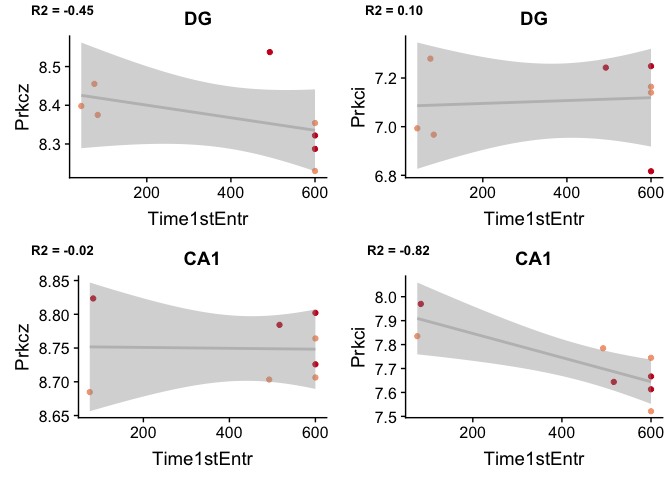
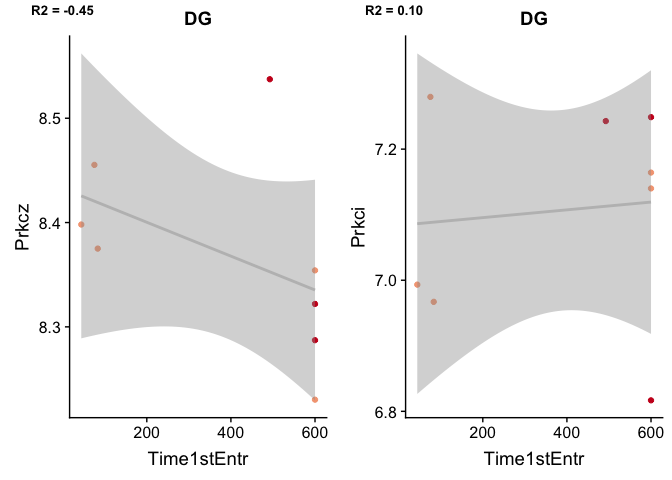
now with DG only

diff --git a/scripts/02e_correlations.md b/scripts/02e_correlations.md
@@ -1,13 +1,13 @@
     library(tidyverse) 
 
-    ## ── Attaching packages ────────────────────────────────────────────────────────────────────────────────────── tidyverse 1.2.1 ──
+    ## ── Attaching packages ──────────────────────────────────────────────────────────────────────── tidyverse 1.2.1 ──
 
     ## ✔ ggplot2 3.2.1     ✔ purrr   0.3.2
     ## ✔ tibble  2.1.3     ✔ dplyr   0.8.1
     ## ✔ tidyr   0.8.3     ✔ stringr 1.4.0
     ## ✔ readr   1.3.1     ✔ forcats 0.4.0
 
-    ## ── Conflicts ───────────────────────────────────────────────────────────────────────────────────────── tidyverse_conflicts() ──
+    ## ── Conflicts ─────────────────────────────────────────────────────────────────────────── tidyverse_conflicts() ──
     ## ✖ dplyr::filter() masks stats::filter()
     ## ✖ dplyr::lag()    masks stats::lag()
 
@@ -26,34 +26,32 @@
 
     knitr::opts_chunk$set(fig.path = '../figures/02e_correlations/', cache = F)
 
+    # DG only
+
     # import varance stabilized data
     DGvsd <- read.csv("../data/02c_DGvsd.csv", stringsAsFactors = F, check.names = F, row.names = 1)  
-    CA1vsd <- read.csv("../data/02c_CA1vsd.csv", stringsAsFactors = F, check.names = F, row.names = 1)  
 
     # import col Data and subset for each region
     a.colData <- read.csv("../data/02a_colData.csv", header = T)
     a.colData$mouse <- sapply(strsplit(as.character(a.colData$RNAseqID),"-"), "[", 1)
 
     DGcols <- a.colData %>% filter(Punch == "DG", APA2 %in% c("conflict.trained", "standard.trained")) %>% droplevels()
-    CA1cols <- a.colData %>% filter(Punch == "CA1", APA2 %in% c("conflict.trained", "standard.trained")) %>% droplevels()
+
 
     # create lists of trained only samples
     DGtrained <- DGcols$mouse
-    CA1trained <- CA1cols$mouse
 
     # cutoff region in name
     names(DGvsd) <- sapply(strsplit(names(DGvsd),"-"), "[", 1)
-    names(CA1vsd) <- sapply(strsplit(names(CA1vsd),"-"), "[", 1)
 
     # keep only trained varance stabilized data
     DGvsd <- DGvsd %>% select(DGtrained)
-    CA1vsd <- CA1vsd %>% select(CA1trained)
 
     DGvsd <- as.data.frame(t(DGvsd))
-    CA1vsd <- as.data.frame(t(CA1vsd))
+
 
     DGvsd$mouse <- row.names(DGvsd)
-    CA1vsd$mouse <- row.names(CA1vsd)
+
 
     # import behavior data, create mouse id
     behav <- read.csv("../data/01a_behavior.csv") 
@@ -79,54 +77,34 @@
     DGsig <- read.csv("../data/02c_DGforupset.csv", stringsAsFactors = F) %>% select(gene) %>% droplevels()
     DGsig <- DGsig$gene
 
-    CA1sig <- read.csv("../data/02c_CA1forupset.csv", stringsAsFactors = F) %>% select(gene) %>% droplevels()
-    CA1sig <- CA1sig$gene
 
     DGvsdSig <- DGvsd %>% select(mouse,DGsig) %>% arrange(mouse)
-    CA1vsdSig <- CA1vsd %>% select(mouse,CA1sig) %>% arrange(mouse)
 
     DG <- left_join(timefirstentr,DGvsdSig) %>% drop_na()  %>% arrange(mouse)
 
     ## Joining, by = "mouse"
 
-    CA1 <- left_join(timefirstentr,CA1vsdSig) %>% drop_na() %>% arrange(mouse)
-
-    ## Joining, by = "mouse"
-
     DG <- as.data.frame(DG)
-    CA1 <- as.data.frame(CA1)
 
     row.names(DG) <- DG$mouse 
     DG$mouse <- NULL
 
-    row.names(CA1) <- CA1$mouse 
-    CA1$mouse <- NULL
 
     # subset for sanes genes
     candidates <- c("Gria1", "Gria2", "Grin1", "Grin2a", "Grin2d",  "Prkcz" , "Prkci", "Wwc1")
 
     DGvsdCan <- DGvsd %>% select(mouse,candidates)
-    CA1vsdCan <- CA1vsd %>% select(mouse,candidates)
 
     DGcan <- left_join(timefirstentr,DGvsdCan) %>% drop_na()
 
     ## Joining, by = "mouse"
 
-    CA1can <- left_join(timefirstentr,CA1vsdCan) %>% drop_na()
-
-    ## Joining, by = "mouse"
-
     DGcan <- as.data.frame(DGcan)
-    CA1can <- as.data.frame(CA1can)
 
     row.names(DGcan) <- DGcan$mouse 
     DGcan$mouse <- NULL
 
-    row.names(CA1can) <- CA1can$mouse 
-    CA1can$mouse <- NULL
-
     DGcolscounts <- cbind(DGcols,DG)
-    CA1colscounts <- cbind(CA1cols,CA1)
 
     M <- cor(DG)
     M <- as.data.frame(M)
@@ -167,53 +145,6 @@
 
 ![](../figures/02e_correlations/DG-4.png)
 
-    M <- cor(CA1)
-    M <- as.data.frame(M)
-    M$rownames <- row.names(M)
-    M <- M %>% filter(pTimeTarget > 0.75 | pTimeTarget < -0.75)
-    row.names(M) <- M$rownames
-    greatthan05 <- M$rownames
-    M <- M %>% select(greatthan05)
-    M <- as.matrix(M)
-    corrplot.mixed(M, order = "hclust")
-
-![](../figures/02e_correlations/CA1-1.png)
-
-    ggplot(CA1colscounts, aes(x = Time1stEntr, y = Snx2, color = CA1cols$Treatment)) +
-      geom_point() + 
-      scale_color_manual(values = c("#f4a582", "#ca0020")) +
-      theme(legend.position = "none") +
-      geom_smooth(method='lm', color = "grey")
-
-![](../figures/02e_correlations/CA1-2.png)
-
-    ggplot(CA1colscounts, aes(x = pTimeTarget, y = Adamts1, color = CA1cols$Treatment)) +
-      geom_point() + 
-      scale_color_manual(values = c("#f4a582", "#ca0020")) +
-      theme(legend.position = "none") +
-      geom_smooth(method='lm', color = "grey")
-
-![](../figures/02e_correlations/CA1-3.png)
-
-    M <- cor(CA1can)
-    M <- as.data.frame(M)
-    M$rownames <- row.names(M)
-    row.names(M) <- M$rownames
-    greatthan05 <- M$rownames
-    M <- M %>% select(greatthan05)
-    M <- as.matrix(M)
-    corrplot.mixed(M, order = "hclust")
-
-![](../figures/02e_correlations/CA1-4.png)
-
-    ggplot(CA1can, aes(x = Time1stEntr, y = Prkci, color = CA1cols$Treatment)) +
-      geom_point() + 
-      scale_color_manual(values = c("#f4a582", "#ca0020")) +
-      theme(legend.position = "none") +
-      geom_smooth(method='lm', color = "grey")
-
-![](../figures/02e_correlations/CA1-5.png)
-
     zDG <- ggplot(DGcan, aes(x = Time1stEntr, y = Prkcz)) +
       geom_point(aes( color = DGcols$Treatment))  +
       scale_color_manual(values = c("#f4a582", "#ca0020")) +
@@ -228,22 +159,9 @@
       geom_smooth(method='lm', color = "grey")  +
       labs(title = "DG")
 
-    zCA1 <- ggplot(CA1can, aes(x = Time1stEntr, y = Prkcz)) +
-      geom_point(aes( color = CA1cols$Treatment))  +
-      scale_color_manual(values = c("#f4a582", "#ca0020")) +
-      theme(legend.position = "none") +
-      geom_smooth(method='lm', color = "grey")  +
-      labs(title = "CA1")
 
-    iCA1 <- ggplot(CA1can, aes(x = Time1stEntr, y = Prkci )) +
-      geom_point(aes(color = CA1cols$Treatment)) + 
-      scale_color_manual(values = c("#f4a582", "#ca0020")) +
-      theme(legend.position = "none") +
-      geom_smooth(method='lm', color = "grey") +
-      labs(title = "CA1")
-
-    plot_grid(zDG, iDG, zCA1, iCA1, 
-              labels = c("R2 = -0.45" ,"R2 = 0.10", "R2 = -0.02", "R2 = -0.82"), 
+    plot_grid(zDG, iDG, 
+              labels = c("R2 = -0.45" ,"R2 = 0.10"), 
               label_size = 10)
 
 ![](../figures/02e_correlations/pkcs-1.png)
